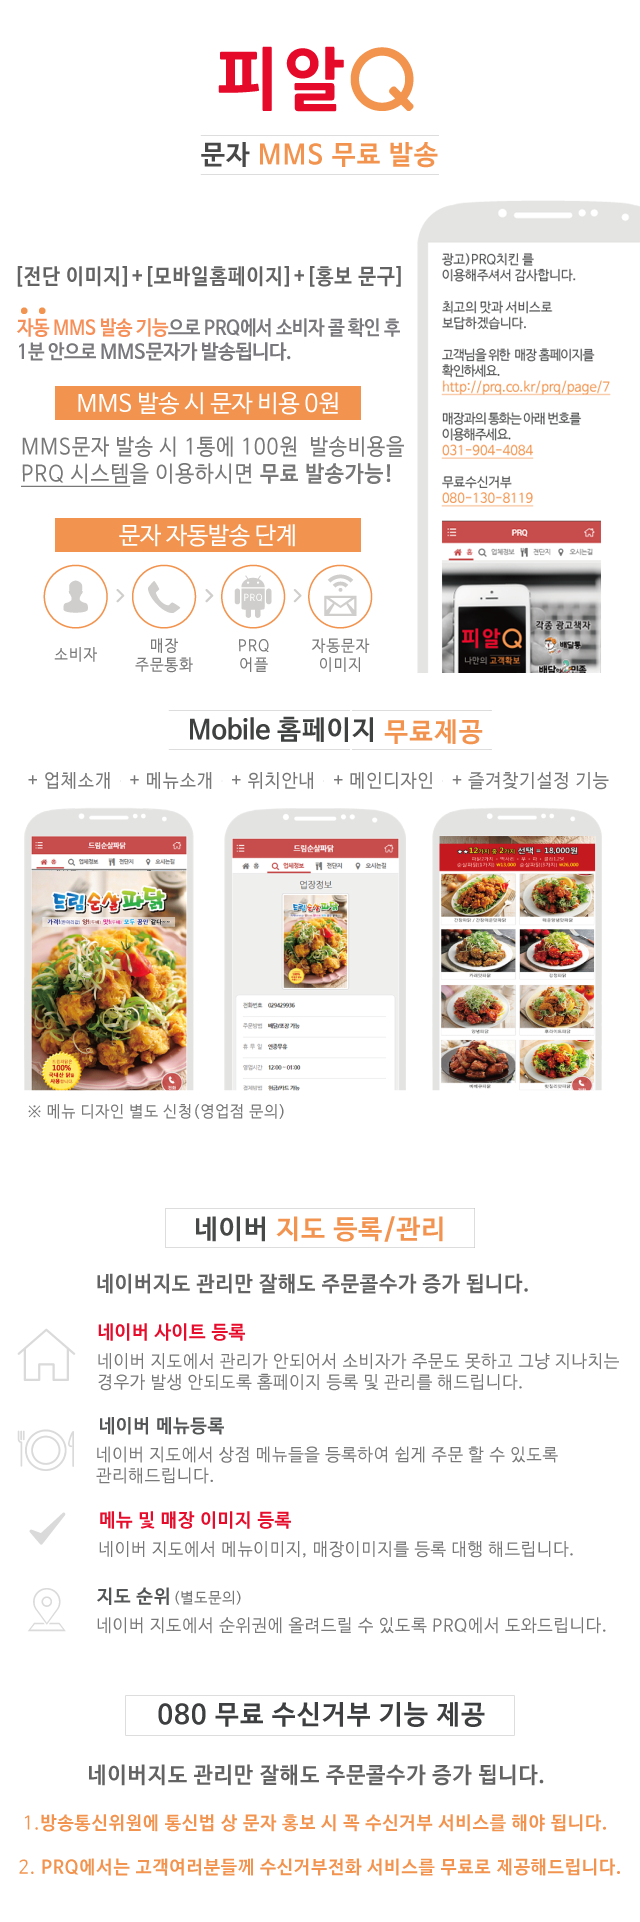
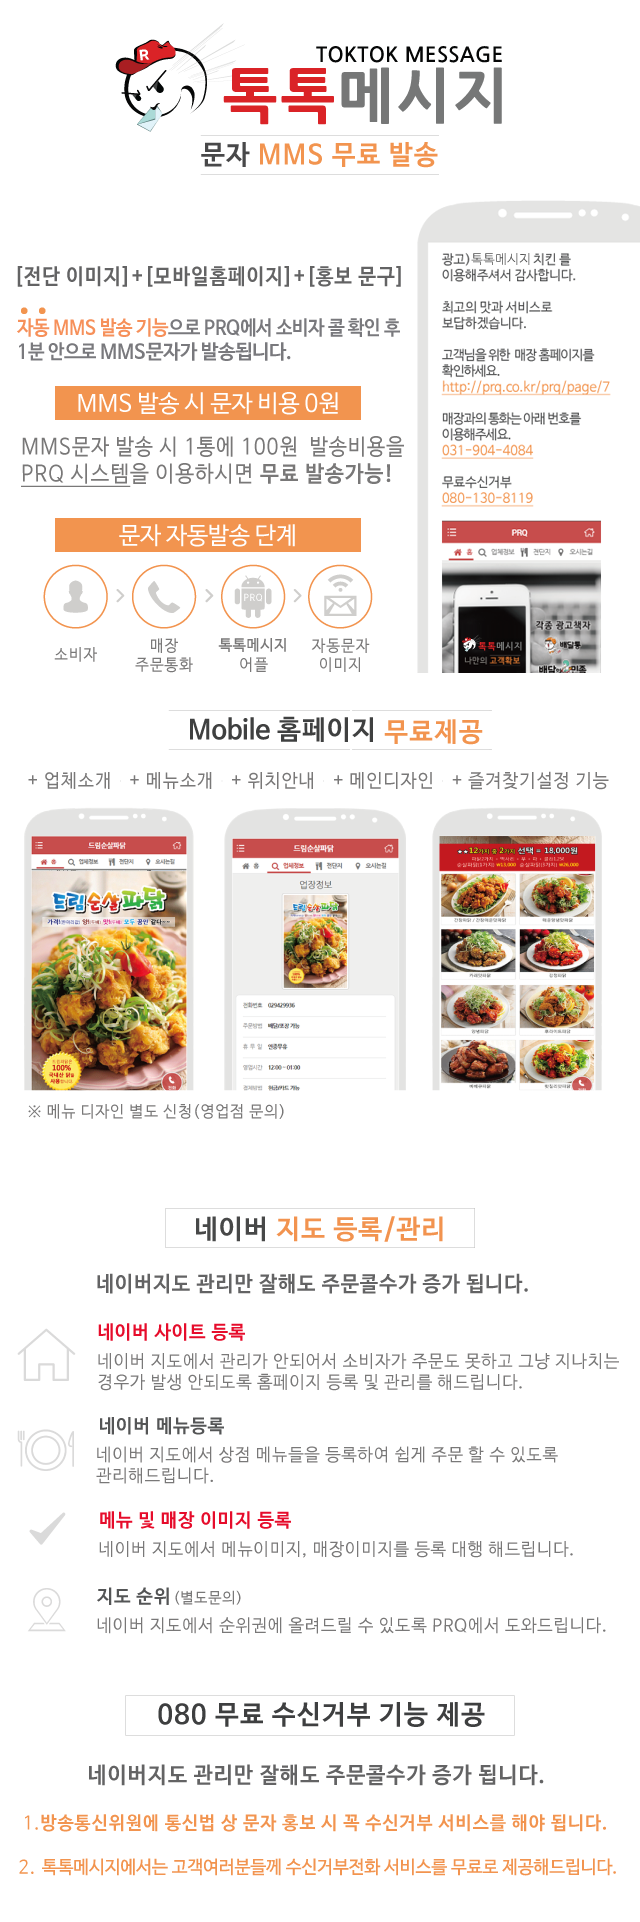
Fix first_send

diff --git a/prq/application/views/crontab/view_v.php b/prq/application/views/crontab/view_v.php
@@ -83,9 +83,12 @@ foreach($black_list as $bl){
 * SET @max_count=@max_count+1;
 *
 
-e날짜	아이디	포트	전화1	전화2	cd_state	cd_name	cd_tel	cd_hp	query	중복발송제한	결과
+e날짜	
+아이디	
+포트	
+전화1	전화2	cd_state	cd_name	cd_tel	cd_hp	query	중복발송제한	결과
 2016-05-27 14:20:04	0319795663@naver.com	3	01034788878		0	효성각	0319795663	01077395675	0	150	0	3	16/150	first_sent	150	0	보냄
-
+5
 *******************************************************************************/
 echo "<table border=1  class='ibk_board mlr30'>";
 echo "<tr>";
@@ -238,6 +241,7 @@ foreach($list as $li)
 			$controller->crontab_m->set_cdr_kt($cdr_info);
 			$li->cd_hp=$st->st_hp_1;
 		}/* if($li->cd_port=="0"){...} */
+		
 
 		/*mms 발송 여부*/
 		$chk_mms=true;
@@ -364,7 +368,16 @@ foreach($list as $li)
 
 		/********************************************************************************
 		*
-		* 9-3. curl->simple_post('http://prq.co.kr/prq/set_gcm.php')
+		* 9-3. if($cd_date=="first_send"){...}
+		* - 처음 보낼 때 안보내지던 버그 수정
+		* - $chk_mms = true;
+		*********************************************************************************/
+		if($cd_date=="first_send"){
+			$chk_mms=true;
+		}
+		/********************************************************************************
+		*
+		* 9-4. curl->simple_post('http://prq.co.kr/prq/set_gcm.php')
 		* - 수신거부 중복, 150건 제한 혹은 설정한 일수 제한 아닌 경우만
 		* - $chk_mms = true;
 		*********************************************************************************/

diff --git a/prq/prqservice.php b/prq/prqservice.php
@@ -15,12 +15,12 @@
 			<img src="/prq/img/new/prqservice.png" width="100%">
 		</div>
 		<div style="width:100%;">
-			<ul style="padding:0px;margin:0px;list-style:none;font-size:45px;line-height:115px;text-align:center;color:#fff;">
+			<ul style="padding:0px;margin:0px;list-style:none;font-size:45px;line-height:55px;text-align:center;color:#fff;">
 				<a href="tel:031-904-4084" style="color:#fff;">
-				<li style="float:left;width:30%;background:#a7a7a7;">테스트 전화</li>
+				<li style="float:left;width:30%;background:#a7a7a7;"><img src="/prq/img/new/prqcall.png" width="100%"></li>
 				</a>
 				<a href="tel:1599-7571" style="color:#fff;">
-				<li style="float:left;width:70%;background:#e84031;">전화문의</li>
+				<li style="float:left;width:70%;background:#e84031;"><img src="/prq/img/new/prqcall2.png" width="100%"></li>
 				</a>
 				<li style="clear:both;"></li>
 			</ul>

diff --git a/prq/application/views/page/view_v.php b/prq/application/views/page/view_v.php
@@ -260,12 +260,12 @@ map_location();
 		<div id="footer" class="footer footer01" style="letter-spacing:0.5px;background:#353840;height:105px;">
 			<div style="background:#e84031;margin-bottom:10px;font-size:17px;padding:5px;">
 				<a href="/prq/prqservice.php">
-				<ul style="width:190px;margin:0 auto;">
+				<ul style="width:180px;margin:0 auto;">
 					<li style="float:left;">
 						<img src="/prq/img/new/cursor.png" style="width:22px;">
 					</li>
 					<li style="float:right;font-size:17px;padding-top:7px;">
-						PRQ 서비스 신청하기
+						톡톡메시지 신청하기
 					</li>
 					<li style="clear:both;"></li>
 				</ul>

diff --git a/prq/application/models/franchise_m.php b/prq/application/models/franchise_m.php
@@ -458,6 +458,8 @@ mysql> select * from prq_member_code;
 		5 임의 설정 (prq에서 5건을 전송후 일 전송이 차단 됩니다. 통신사에서 일전송이 200건이 되면 통신사측(mno)에서 봇으로 간주 차단하고 해지 요청 할 때까지 전송할 수 없기 때문입니다.
 		*/
 		$sql_array[]="where mn_id='".$arrays['mn_id']."' ";
+		$sql_array[]="OR mn_hp='".$arrays['mn_hp']."' ";
+		$sql_array[]="order by mn_datetime limit 1";
 		$sql=join("",$sql_array);
 		$result = $this->db->query($sql);
 		//결과 반환

diff --git a/prq/include/view/info.php b/prq/include/view/info.php
@@ -38,7 +38,7 @@ extract($_POST);
   	storedetail -->
 	
 	<div style="border:0px solid red;padding:10px;">
-		<div style="margin-bottom:9px;font-size:23px;text-align:center;">업장정보</div>
+		<div style="margin-bottom:9px;font-size:23px;text-align:center;">업체정보</div>
 		
 		<div style="text-align:center;">
 			<img src="/prq/uploads/TH/<?php echo $st_thumb_paper;?>" style="background:#fff;padding:4px;border:1px solid #bcbcbc;width:160px;border-radius:6px;">

diff --git a/prq/application/controllers/franchise.php b/prq/application/controllers/franchise.php
@@ -334,6 +334,7 @@ class Franchise extends CI_Controller {
 				$modify_mno_data = array(
 					'mn_id' => $this->input->post('mb_id', TRUE),
 					'mn_email' => $this->input->post('mb_email', TRUE),
+					'mn_hp' => $this->input->post('mb_hp', TRUE),
 					'mn_dup_limit' => $this->input->post('mn_dup_limit', TRUE),
 					'mn_mms_limit' => $this->input->post('mn_mms_limit', TRUE)
 				);
